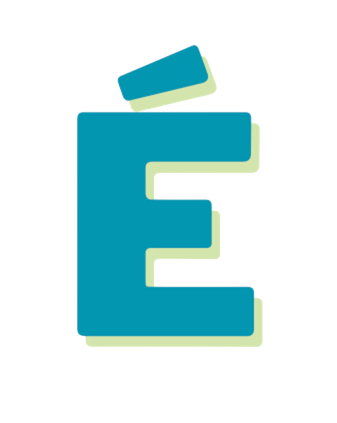
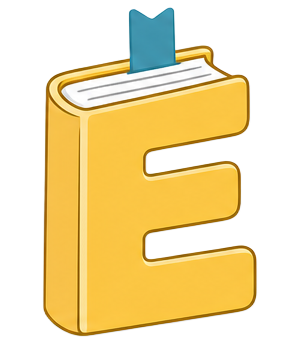
docs: simplify README to focus on what the bot does
User-facing overview with emojis: save articles, AI ratings via Ollama, and /gustos preferences.

diff --git a/README.md b/README.md
@@ -1,52 +1,15 @@
 # <img src="screenshots/que-leo.icon.png" width="48" height="48" style="vertical-align: middle; margin-right: 8px;" /> ¿Qué leo? Telegram bot
 
-Un bot de Telegram que permite a los usuarios guardar artículos para leer después. En https://que-leo.vercel.app puedes ver un artículo aleatorio de tu lista y empezar a leer sin tener que decidir ni pensar demasiado.
+Un bot de Telegram para guardar artículos y leerlos cuando te apetezca. En [que-leo.vercel.app](https://que-leo.vercel.app) puedes sacar uno al azar de tu lista y empezar sin darle demasiadas vueltas.
 
 <img src="screenshots/que-leo-bot.png" width="600" alt="Bot de Telegram" />
 
-## Características
+## ✨ Qué hace
 
-- 🛡️ Rate limiting (5 artículos por minuto por usuario)
-- ✅ Validación de URLs y metadatos
-- 🔍 Extracción automática de metadatos de artículos
-- 🤖 Resúmenes y valoración con Ollama local (opcional)
-- 🌐 API HTTP para la app web (`/api/extract-metadata`)
+- 📎 **Guardar artículos** — mandas un enlace y el bot guarda título, autor, temas e imagen por ti.
+- 🤖 **IA para valorar** — usa inteligencia artificial local ([Ollama](https://ollama.com)) para resumir cada artículo, ponerle una nota del 1 al 10 y explicar en una frase qué aporta el contenido.
+- 🎯 **Gustos personalizados** (`/gustos`) — le cuentas al bot qué te interesa y qué prefieres evitar. Las valoraciones se adaptan a eso y a los artículos que ya habías puntuado bien.
 
-## Inicio rápido
+---
 
-Crea un archivo `.env` en la raíz del proyecto:
-
-```env
-TELEGRAM_TOKEN=
-SUPABASE_URL=
-SUPABASE_ANON_KEY=
-```
-
-Opcionales: `PORT` (por defecto 3000), `ALLOWED_ORIGINS`, `LOG_LEVEL`.
-
-Para resúmenes con [Ollama](https://ollama.com) local (copia desde [`.env.example`](.env.example)):
-
-```env
-OLLAMA_ENABLED=true
-OLLAMA_BASE_URL=http://localhost:11434
-OLLAMA_MODEL=llama3.2
-OLLAMA_USER_PREFERENCES=Me interesan: ingeniería de software, productividad. Evito: clickbait.
-OLLAMA_TIMEOUT_MS=120000
-OLLAMA_NOTIFY_ON_ERROR=true
-```
-
-El bot llama directamente a la API de Ollama (no hace falta Open WebUI). Tras guardar un artículo, envía un segundo mensaje en Telegram con el resumen y la nota según tus gustos.
-
-```bash
-npm install
-npm start
-```
-
-El bot usa polling de Telegram, así que no necesitas abrir puertos si solo lo usas desde Telegram.
-
-## Tests
-
-```bash
-npm test
-```
-
+Hecho con ❤️ por dianait